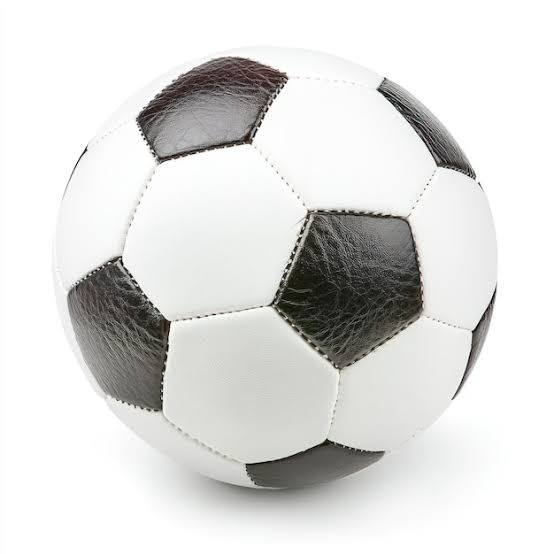
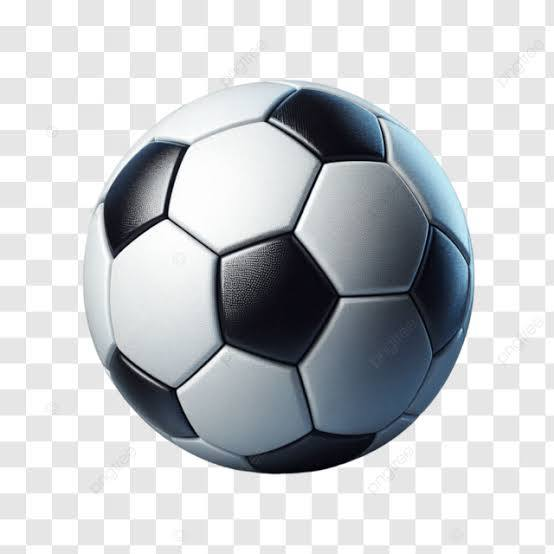
ui: nova bola 3D transparente — botão 55px, bola 42px

diff --git a/web/static/style.css b/web/static/style.css
@@ -123,8 +123,8 @@ h1 {
 
 /* ── Bola de actualizar ── */
 .refresh-ball-btn {
-  width: 54px;
-  height: 54px;
+  width: 55px;
+  height: 55px;
   overflow: visible;
   position: relative;
   padding: 0;
@@ -144,12 +144,11 @@ h1 {
 }
 
 .refresh-ball-btn .football-ball img {
-  width: 40px;
-  height: 40px;
+  width: 42px;
+  height: 42px;
   object-fit: contain;
   display: block;
-  mix-blend-mode: multiply;
-  filter: drop-shadow(0 2px 4px rgba(0, 0, 0, 0.28));
+  filter: drop-shadow(0 2px 5px rgba(0, 0, 0, 0.32));
 }
 
 .refresh-ball-btn.idle .football-ball {
@@ -1413,13 +1412,13 @@ html.pwa-app .desktop-status {
 }
 
 .app-header .refresh-ball-btn {
-  width: 50px;
-  height: 50px;
+  width: 55px;
+  height: 55px;
 }
 
 .app-header .refresh-ball-btn .football-ball img {
-  width: 36px;
-  height: 36px;
+  width: 42px;
+  height: 42px;
 }
 
 .main-content {

diff --git a/web/static/desktop.css b/web/static/desktop.css
@@ -193,13 +193,13 @@ html.desktop-app .app-header .icon-btn {
 }
 
 html.desktop-app .refresh-ball-btn {
-  width: 54px;
-  height: 54px;
+  width: 55px;
+  height: 55px;
 }
 
 html.desktop-app .refresh-ball-btn .football-ball img {
-  width: 40px;
-  height: 40px;
+  width: 42px;
+  height: 42px;
 }
 
 html.desktop-app .main-content {

diff --git a/web/static/index.html b/web/static/index.html
@@ -69,7 +69,7 @@
         <div class="header-actions">
           <button id="refresh" class="icon-btn refresh-ball-btn" type="button" aria-label="Actualizar" title="Actualizar">
             <span class="football-ball" aria-hidden="true">
-              <img src="/images/refresh-ball.png" alt="" width="40" height="40" decoding="async" />
+              <img src="/images/refresh-ball.png" alt="" width="42" height="42" decoding="async" />
             </span>
           </button>
           <button id="settings-btn" class="icon-btn" type="button" aria-label="Definições">⚙</button>

diff --git a/web/static/sw.js b/web/static/sw.js
@@ -1,4 +1,4 @@
-const CACHE = "sindgreen-mentor-v37";
+const CACHE = "sindgreen-mentor-v38";
 const SHELL = ["/index.html", "/style.css", "/app.js", "/icons/icon-192.jpg"];
 
 self.addEventListener("install", (event) => {